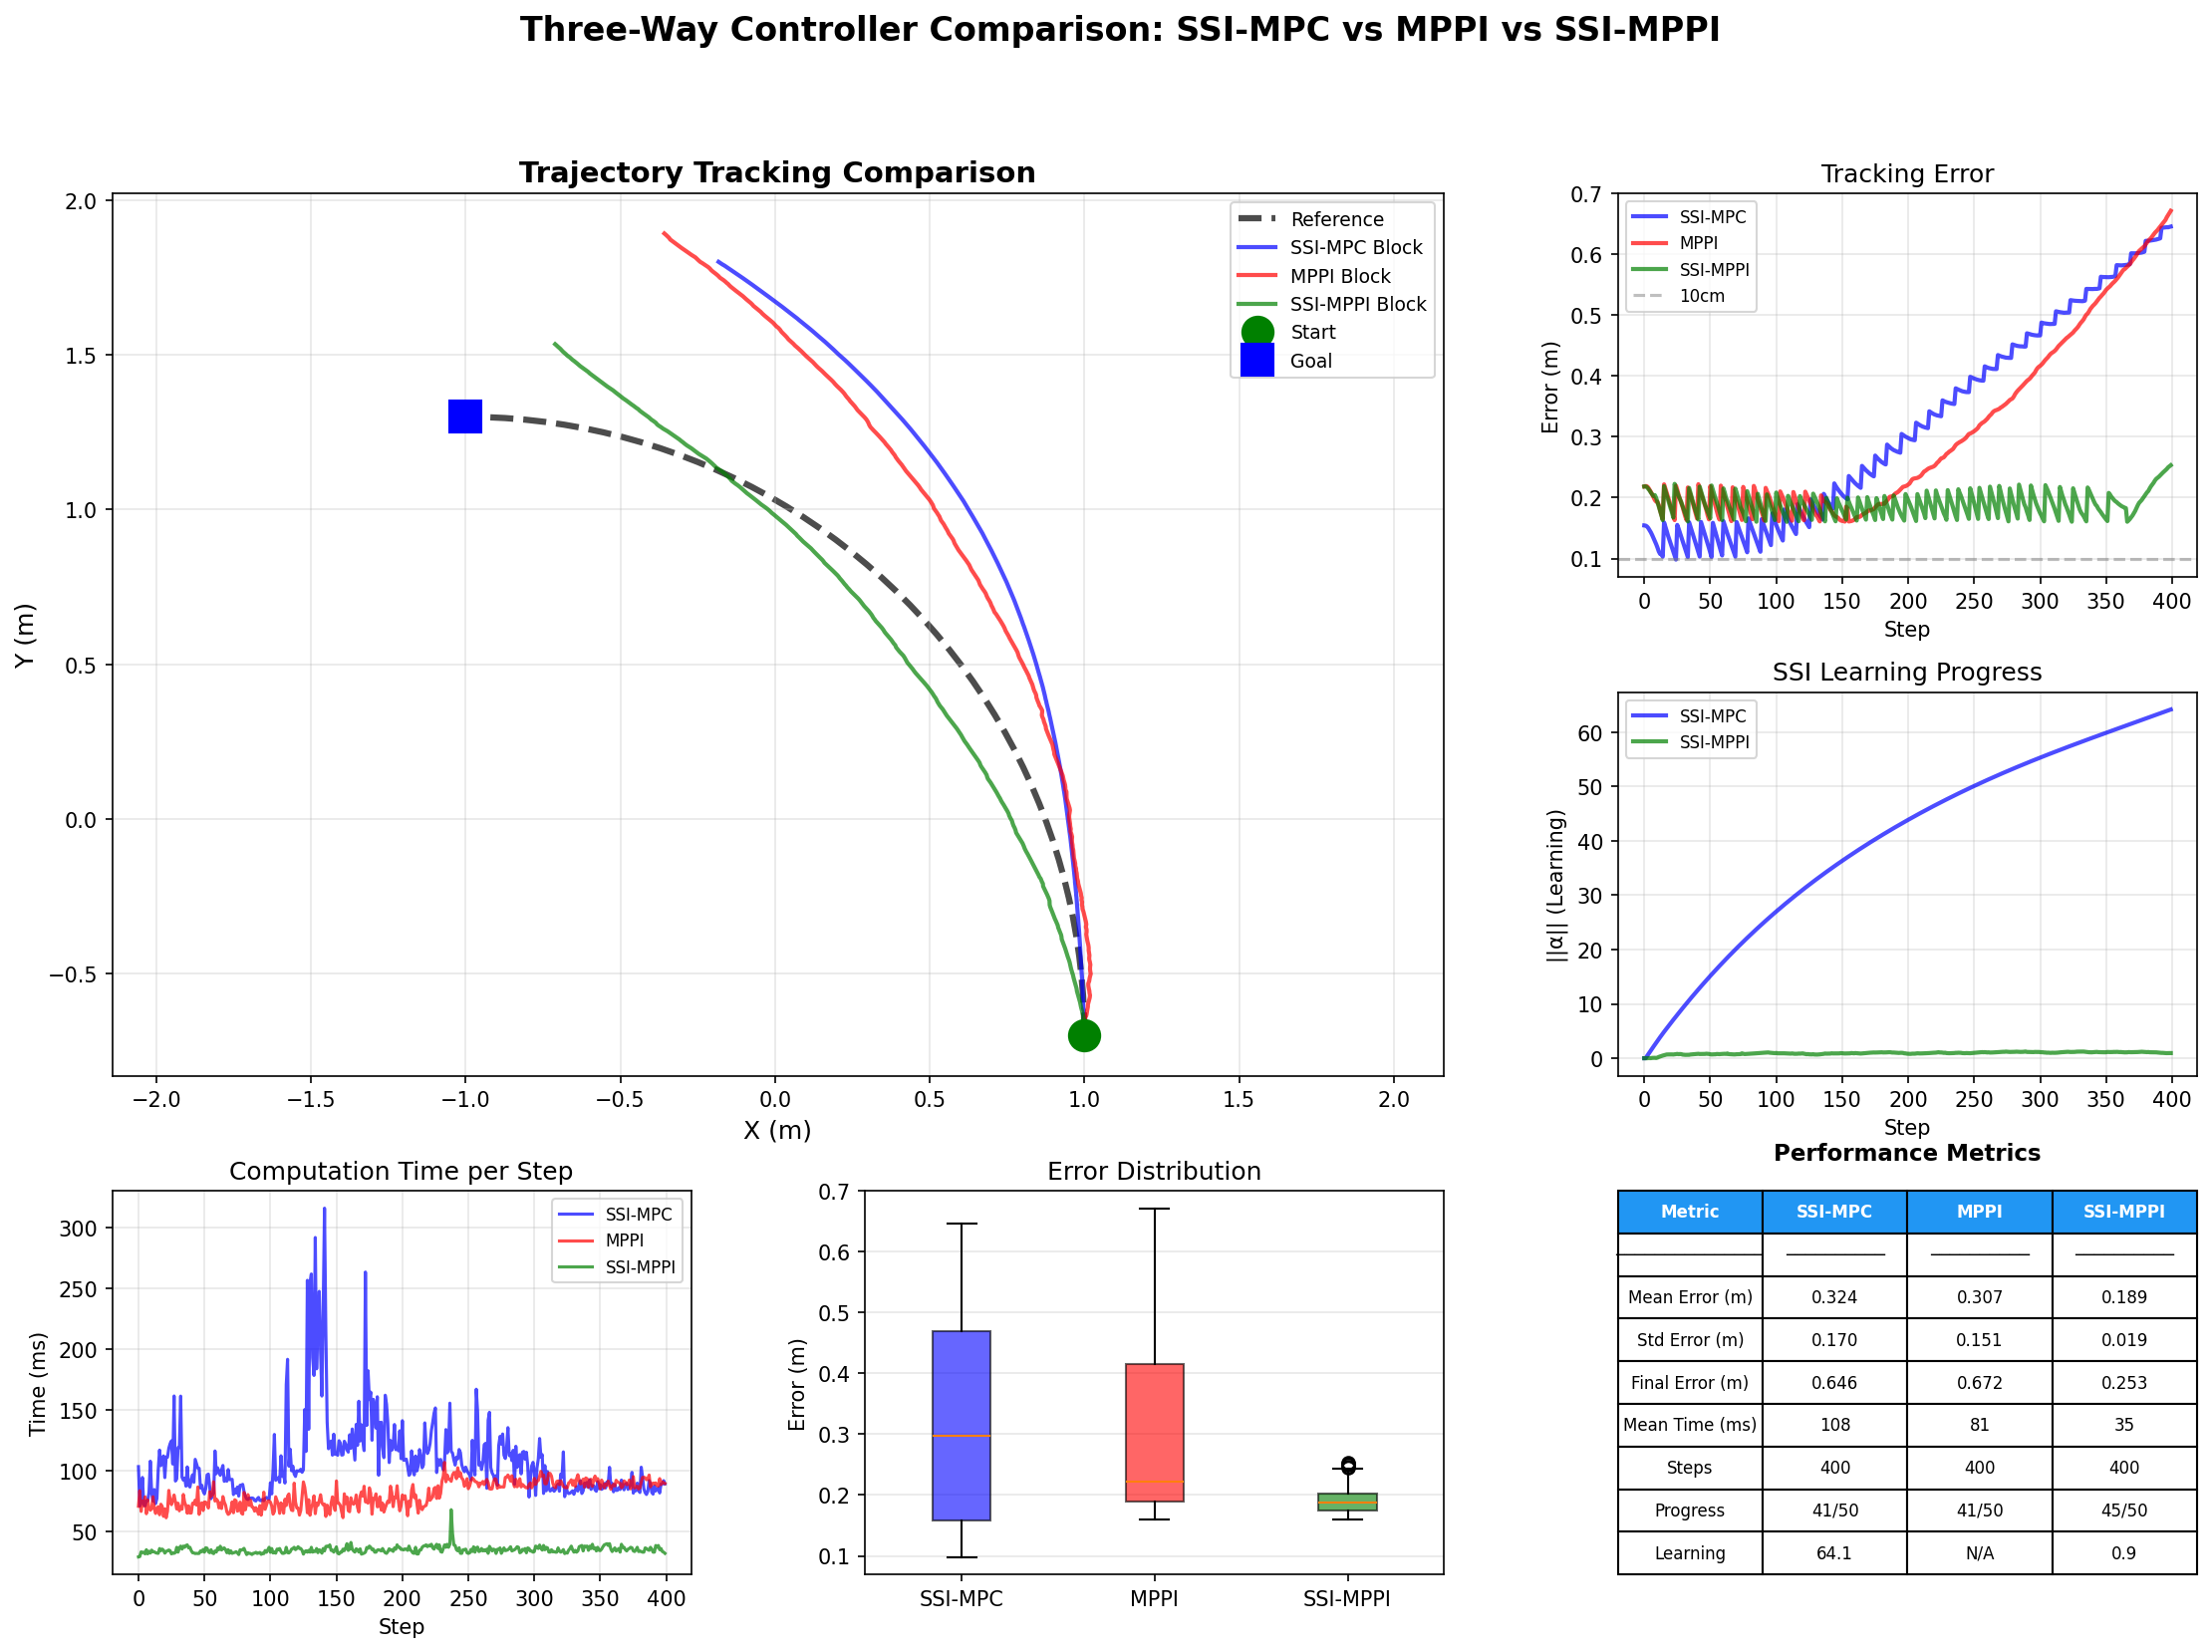
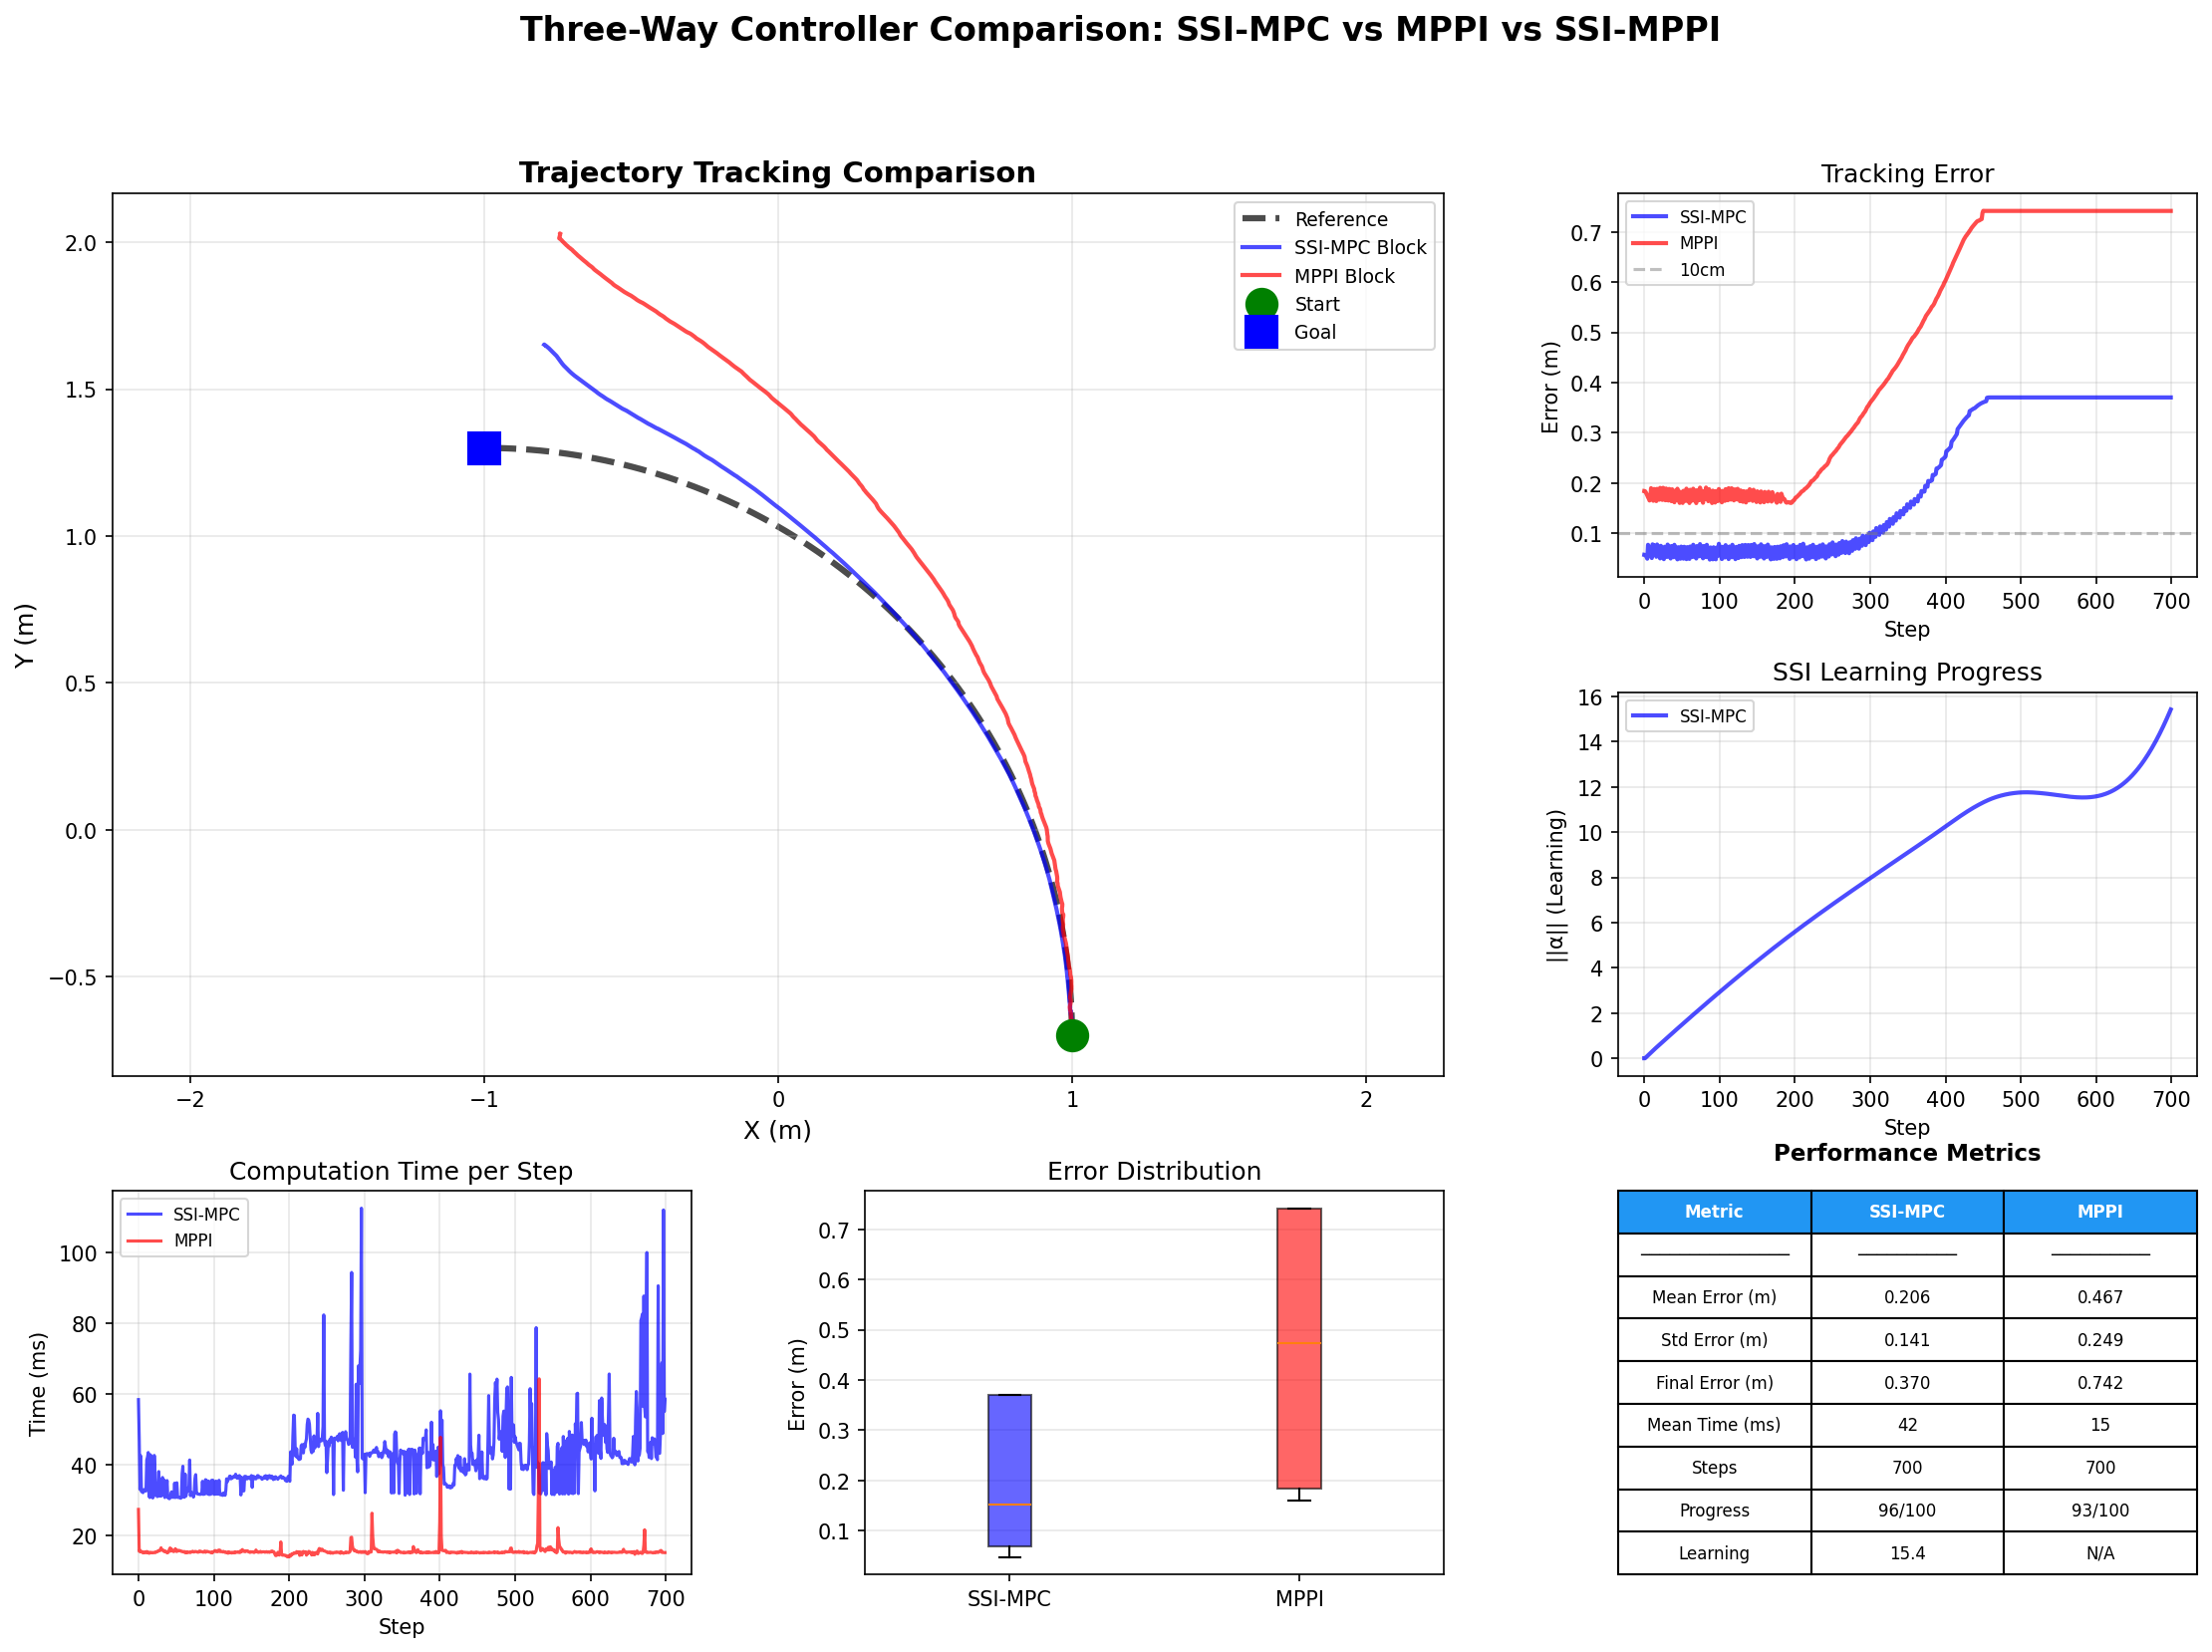
something

diff --git a/experiment_three_way.py b/experiment_three_way.py
@@ -54,7 +54,7 @@ def generate_curved_path(start_pose, dis=1, curvature=0, num_points=100):
     return traj
 
 
-def run_controller(env, controller, controller_name, trajectory, max_steps=400):
+def run_controller(env, controller, controller_name, trajectory, max_steps=700):
     """Generic function to run any controller and collect metrics."""
     print(f"\n{'='*70}")
     print(f"Running: {controller_name}")
@@ -308,17 +308,17 @@ def main():
     block_start = [1.0, -0.7, np.pi/2]
     
     # Trajectory (semicircle)
-    trajectory = generate_curved_path(block_start, dis=np.pi, curvature=0.5, num_points=50)
+    trajectory = generate_curved_path(block_start, dis=np.pi, curvature=0.5, num_points=100)
     print(f"\nTrajectory: Semicircle, {len(trajectory)} waypoints")
     
-    max_steps = 400
+    max_steps = 700
     results_list = []
     
     # ========================================================================
     # EXPERIMENT 1: SSI-MPC
     # ========================================================================
     
-    env1 = gym.make("MushrBlock-v0", render_mode="rgb_array", xml_file="sysid_env3.xml")
+    env1 = gym.make("MushrBlock-v0", render_mode="human", xml_file="sysid_env3.xml")
     env1.reset()
     init_state = np.concatenate((pose_euler2quat(car_start), pose_euler2quat(block_start)))
     env1.unwrapped.set_init_states(init_state)
@@ -331,7 +331,7 @@ def main():
     omega = np.random.normal(0.0, 0.3, (20, 11))
     b = np.random.uniform(0.0, 2.0 * np.pi, (20, 1))
     rf_dict = {'n_rf': 20, 'omega': omega, 'b': b, 
-               'input': list(range(11)), 'target': [8, 9, 10], 'lr': 0.2}
+               'input': list(range(11)), 'target': [8, 9, 10], 'lr': 0.02}
     
     ssi_mpc_controller = PushingSSIMpcNonlinear(
         'ssi_mpc', car_ssi_mpc, 0.15, 8, rf_dict, true_mass=0.8, true_friction=0.5
@@ -378,7 +378,7 @@ def main():
     
     ssi_mppi_results = run_controller(env3, ssi_mppi_controller, "SSI-MPPI", trajectory, max_steps)
     env3.close()
-    results_list.append(ssi_mppi_results)
+    # results_list.append(ssi_mppi_results)
     
     # ========================================================================
     # COMPARISON

diff --git a/experiment_comparison.py b/experiment_comparison.py
@@ -81,7 +81,7 @@ def run_ssi_mpc(env, trajectory, max_steps=400):
         'b': b,
         'input': list(range(11)),
         'target': [8, 9, 10],
-        'lr': 0.2
+        'lr': 0.01
     }
     
     # Create controller
@@ -394,17 +394,17 @@ def main():
     block_start = [1.0, -0.7, np.pi/2]
     
     # Generate trajectory (semicircle - same as main.py line 132)
-    r = 5.0
-    trajectory = generate_curved_path(block_start, dis=np.pi*r, curvature=1/r, num_points=200)
+    r = 10.0
+    trajectory = generate_curved_path(block_start, dis=np.pi*r*1/2, curvature=1/r, num_points=50)
     print(f"\nTrajectory: Semicircle with {len(trajectory)} waypoints")
     
     # Experiment 1: SSI-MPC
-    env1 = gym.make("MushrBlock-v0", render_mode="rgb_array", xml_file="sysid_env3.xml")
+    env1 = gym.make("MushrBlock-v0", render_mode="human", xml_file="sysid_env3.xml")
     env1.reset()
     init_state = np.concatenate((pose_euler2quat(car_start), pose_euler2quat(block_start)))
     obs1 = env1.unwrapped.set_init_states(init_state)
     
-    ssi_results = run_ssi_mpc(env1, trajectory, max_steps=3500)
+    ssi_results = run_ssi_mpc(env1, trajectory, max_steps=1900)
     env1.close()
     
     # Experiment 2: MPPI

diff --git a/path_tracking_controller.py b/path_tracking_controller.py
@@ -40,14 +40,14 @@ class SoloCarController():
 
     def reset(self):
         self.cost = CarCostFunctions()
-        TIMESTEPS = 20  # T
-        N_SAMPLES = 100  # K
+        TIMESTEPS = 50  # T
+        N_SAMPLES = 500  # K
         ACTION_LOW = [-0.34, 0]
-        ACTION_HIGH = [0.34, 0.4]
+        ACTION_HIGH = [0.34, 0.15]
 
         self.d = 'cpu'
         nx = 3
-        noise_sigma = torch.tensor([[0.03, 0.0],
+        noise_sigma = torch.tensor([[0.09, 0.0],
                                     [0.0, .05]], device=self.d, dtype=torch.float32)
         lambda_ = 1e-2
         noise_mu = torch.tensor([0.0, 0.2], device=self.d, dtype=torch.torch.float32)

diff --git a/ssi/pushing_ssi_mpc_nonlinear.py b/ssi/pushing_ssi_mpc_nonlinear.py
@@ -239,10 +239,10 @@ class PushingSSIMpcNonlinear:
         U = opti.variable(self.u_dim, N)
         
         # Cost weights
-        Q_pos = 5.0
-        Q_theta = 10.0
-        Q_contact = 12.0
-        R_steering = 0.5
+        Q_pos = 27.0
+        Q_theta = 15.0
+        Q_contact = 20.0
+        R_steering = 0.2
         R_accel = 0.1
         
         cost = 0